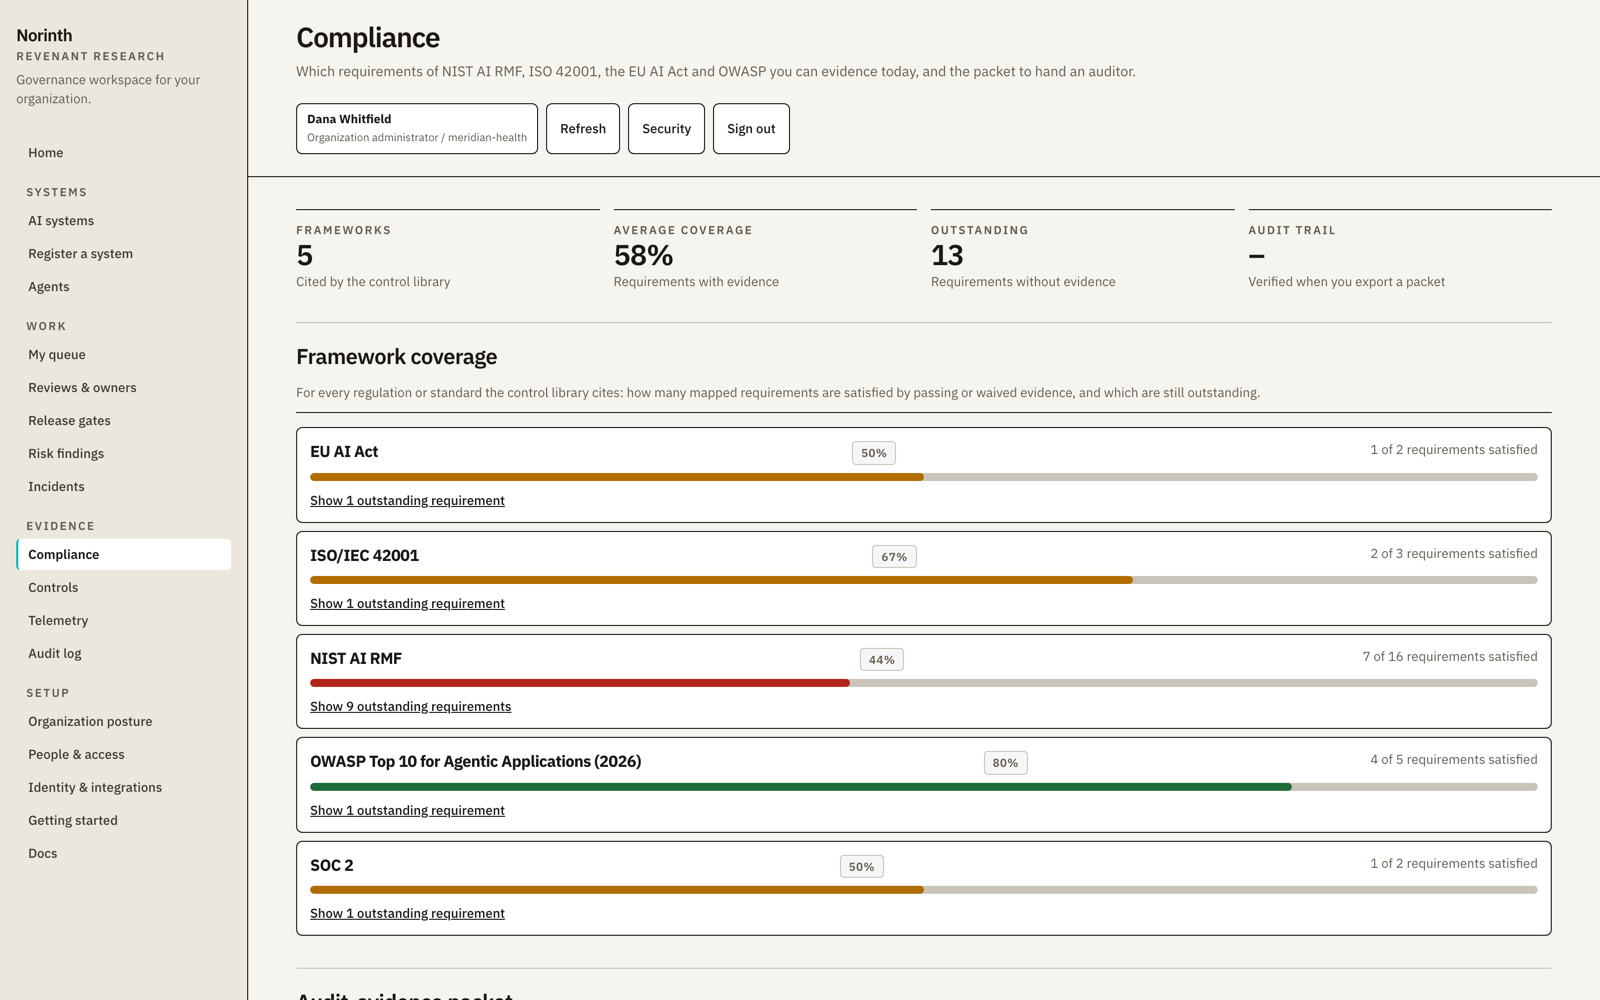
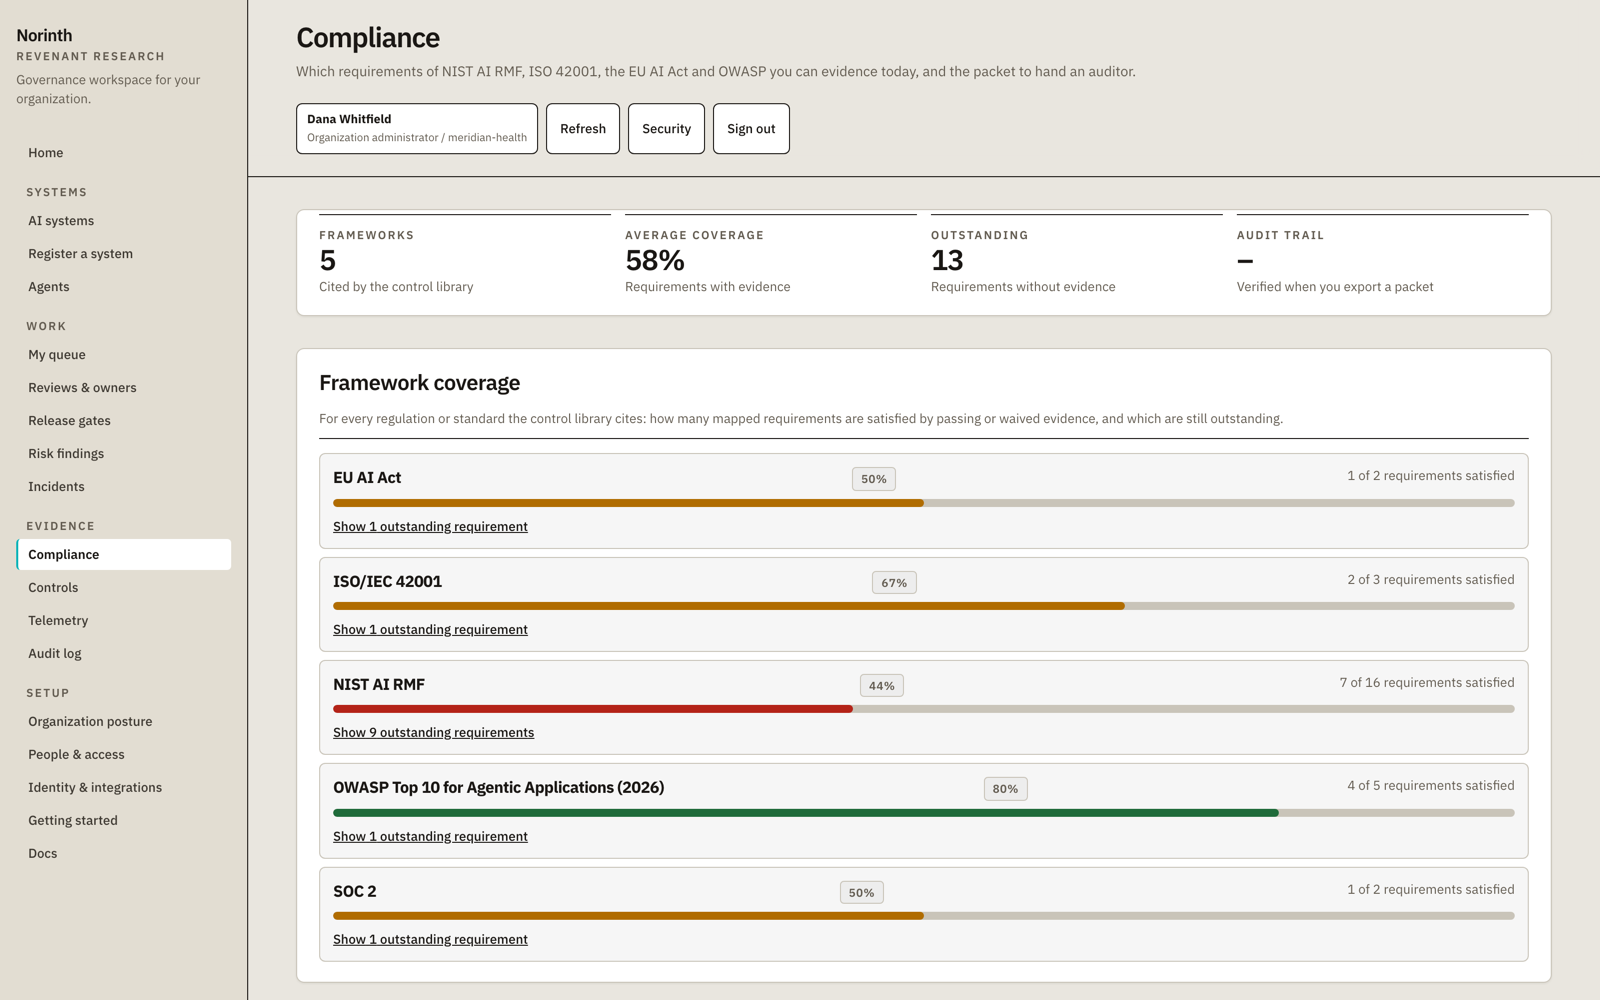
fix(ui): raise content onto real surfaces so the ground stops washing out
The palette change alone did not fix the wash: the sections were
background: transparent with hairline top-rules, so the whole content plane
was one flat field regardless of the ground color. Lightening the token
treated the symptom.

This gives the UI a real elevation system. The ground is a warm light grey
(#e9e6df) that reads as a background; sections and the standalone stat band
are white cards with a border, radius and a soft shadow raised on it; the
tiles inside them (record and object cards) drop to a faint grey fill so
they read as items within a card instead of white-on-white. The topbar and
landing backdrops follow the new ground.

Screenshots regenerated so the README matches.

Changed region(s): [[0.1875, 0.341, 0.9688, 1.0], [0.1875, 0.186, 0.9688, 0.31], [0.7812, 0.279, 0.9062, 0.31]]

diff --git a/apps/platform/frontend/src/styles.css b/apps/platform/frontend/src/styles.css
@@ -178,7 +178,7 @@ code { font-family: var(--n-font-mono); font-size: 0.9em; }
   align-items: flex-start;
   border-bottom: 1px solid var(--n-rule);
   padding: 22px var(--n-pad-x);
-  background: rgba(246, 244, 239, 0.94);
+  background: rgba(233, 230, 223, 0.94);
   backdrop-filter: blur(12px);
 }
 
@@ -251,11 +251,19 @@ code { font-family: var(--n-font-mono); font-size: 0.9em; }
 }
 
 .hero-card,
-.section,
 .lane,
 .object-heading {
   border-top: 1px solid var(--line);
   background: transparent;
+}
+
+/* sections are raised white surfaces on the ground, not transparent bands, so
+   the content plane reads as cards on a background instead of one flat field */
+.section {
+  background: var(--n-paper);
+  border: 1px solid var(--n-rule-dim);
+  border-radius: var(--n-radius-lg);
+  box-shadow: var(--n-shadow);
 }
 
 .hero-card {
@@ -329,6 +337,16 @@ code { font-family: var(--n-font-mono); font-size: 0.9em; }
   gap: 14px;
 }
 
+/* a standalone stat band is a raised surface too, so the numbers sit on a
+   card rather than floating on the ground */
+.metric-grid {
+  background: var(--n-paper);
+  border: 1px solid var(--n-rule-dim);
+  border-radius: var(--n-radius-lg);
+  box-shadow: var(--n-shadow);
+  padding: 4px 22px 20px;
+}
+
 .metric-card { margin: 0; }
 
 .metric-grid {
@@ -375,7 +393,7 @@ code { font-family: var(--n-font-mono); font-size: 0.9em; }
 }
 
 .section {
-  padding: 20px 0 0;
+  padding: 20px 22px;
 }
 
 .section-header {
@@ -417,9 +435,9 @@ code { font-family: var(--n-font-mono); font-size: 0.9em; }
 
 .object-card,
 .record-card {
-  border: 1px solid var(--n-rule);
+  border: 1px solid var(--n-rule-dim);
   border-radius: var(--n-radius);
-  background: var(--n-paper);
+  background: var(--n-surface);
 }
 
 .object-card {
@@ -432,7 +450,7 @@ code { font-family: var(--n-font-mono); font-size: 0.9em; }
 
 .object-card:hover {
   border-color: var(--line-strong);
-  background: #fdfdfc;
+  background: var(--n-surface-hover);
 }
 
 .object-title,

diff --git a/apps/platform/frontend/src/design/tokens.css b/apps/platform/frontend/src/design/tokens.css
@@ -5,9 +5,9 @@
  */
 :root {
   /* ---- colour: ground & ink ------------------------------------------- */
-  --n-bg: #f6f4ef;            /* light warm-neutral page ground */
-  --n-bg-deep: #ebe7dd;       /* parchment, kept for the sidebar and wells */
-  --n-paper: #ffffff;         /* white cards and inputs, so surfaces separate */
+  --n-bg: #e9e6df;            /* warm light-grey ground: clearly a background, so white cards read as raised */
+  --n-bg-deep: #e2ddd2;       /* parchment, kept for the sidebar and wells */
+  --n-paper: #ffffff;         /* white cards and inputs, so surfaces separate from the ground */
   --n-ink: #1a1714;
   --n-ink-muted: #3f3a33;
   --n-ink-dim: #635c51;       /* 5.9:1 on the ground, 6.6:1 on paper */

diff --git a/apps/platform/frontend/src/components/landing.module.css b/apps/platform/frontend/src/components/landing.module.css
@@ -13,7 +13,7 @@
   justify-content: space-between;
   gap: var(--n-space-4);
   padding: 0 var(--n-pad-x);
-  background: rgba(246, 244, 239, 0.94);
+  background: rgba(233, 230, 223, 0.94);
   backdrop-filter: blur(10px);
   border-bottom: 1px solid var(--n-rule);
 }
